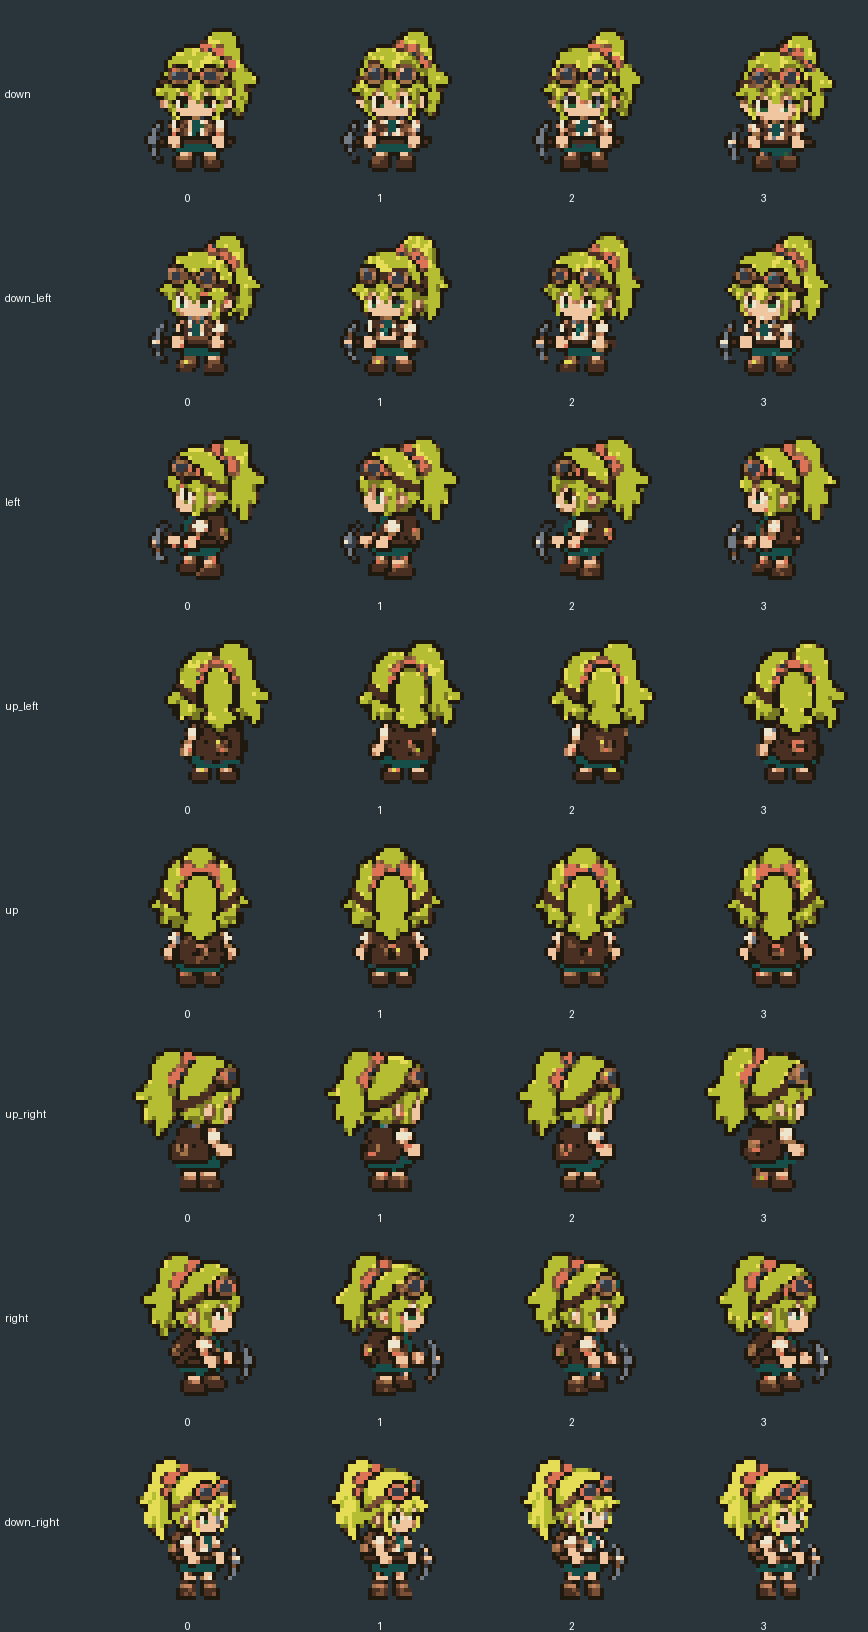
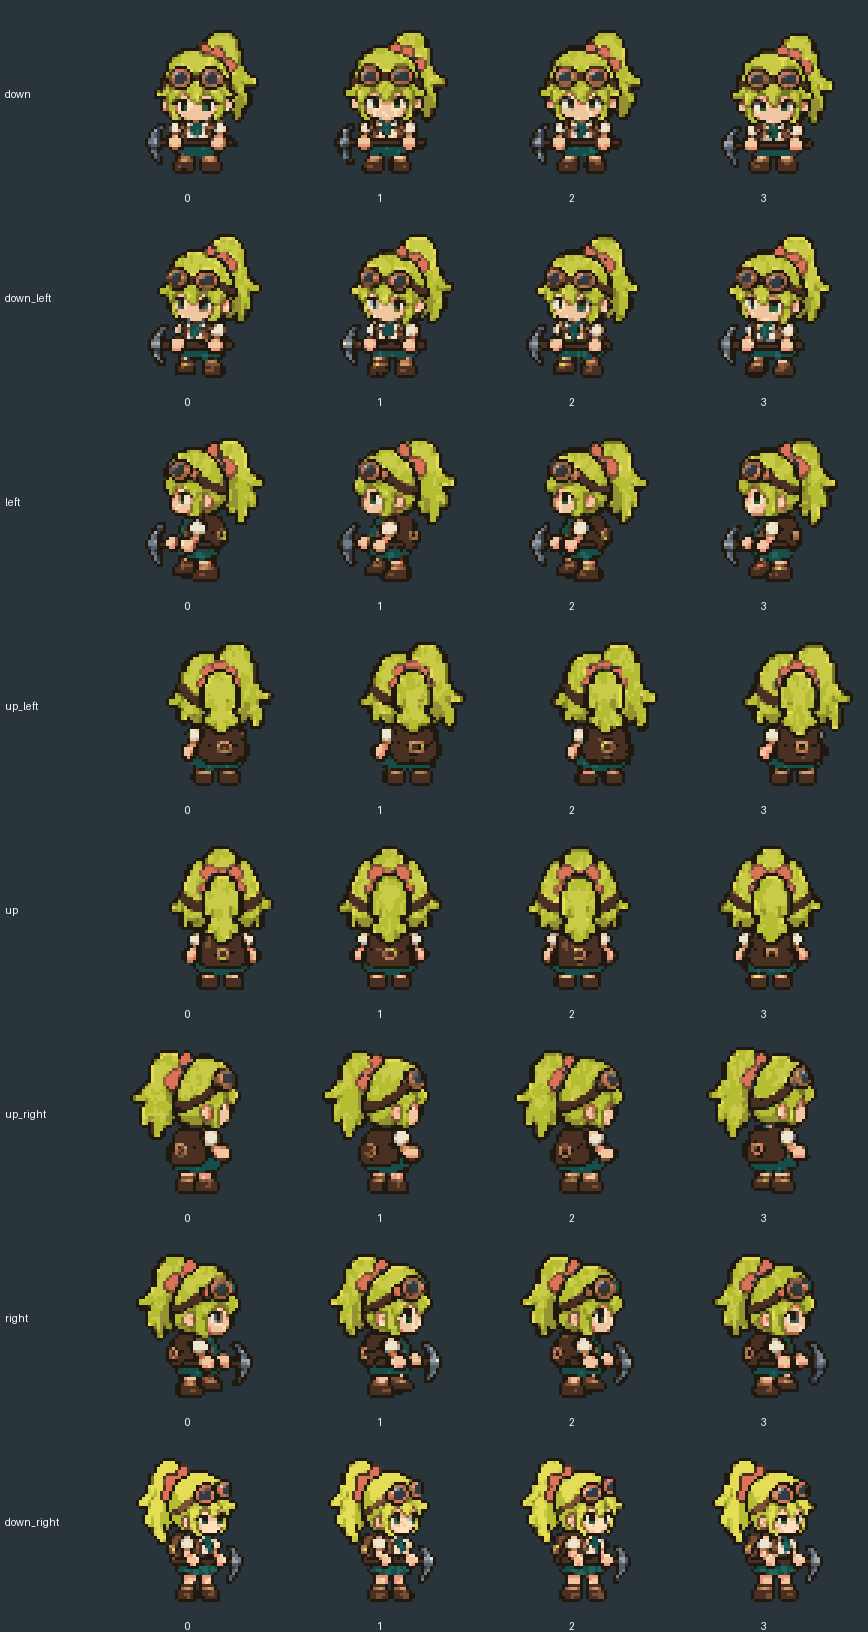
Refine explorer sprites and alternate walking and running feet

diff --git a/ART_STYLE.md b/ART_STYLE.md
@@ -23,14 +23,14 @@
 - 大きな頭、短い手足、簡潔な輪郭を使い、縮小しても向きと動作が分かるようにする。
 - 全方向・全動作で同一キャラクターの髪型、衣装、装備、体型を維持する。
 - 大きさが揃った正方形の画素で描く。滑らかな線、ぼかし、グラデーション、半透明の縁、細かい描き込みを使わない。
-- 1キャラクターの基本パレットは透明色を除いて約16色を目安とし、髪・肌・服・金属は少数の明暗色で表現する。
+- 1キャラクターの基本パレットは透明色を除いて最大32色を目安とし、髪・肌・服・金属の明暗を読み取れるようにする。
 - 光源は画面左上で固定し、キャラクターが向きを変えても光源を回転させない。
 
 ### 制作の順序と4面図
 
 - 最初に `down`（前）、`up`（後ろ）、`left`（左）、`right`（右）の静止した全身像を並べて作る。
 - 4面図では頭身、頭頂・肩が見える角度、髪型、衣装、装備、色、足元の高さを揃える。左右は実際に逆向きの横顔とする。
-- 4面図は外見確認用の資料であり、後述の48×48 pxの本番フレームとは区別する。資料の画像寸法をそのままスプライトとして使わない。
+- 4面図は外見確認用の資料であり、後述の64×64 pxの本番フレームとは区別する。資料の画像寸法をそのままスプライトとして使わない。
 - 外見を確定した後、4方向から斜め4方向を作り、8方向の待機・歩き・走りに展開する。
 
 ### 8方向
@@ -66,6 +66,7 @@
 - 歩きは落ち着いた歩幅と腕振り、走りは大きな歩幅・腕振りと軽い前傾で区別する。
 - 走りは歩きの再生速度を上げただけの素材にせず、専用のポーズを用意する。
 - 歩き・走りの8フレームで左右の足が交互に出る1周期を描く。フレーム0と4を反対側の足の接地ポーズにする。
+- 足の接地、すれ違い、浮きはコマごとに確認する。上半身の揺れだけを描いて歩行・走行とみなさない。
 - 歩き・走りのフレーム0は同じ側の足を前に出し、切り替え時の位相を合わせやすくする。
 - 最終フレームから先頭フレームへ自然につながるようにし、同じ先頭ポーズを末尾に重複させない。
 - 移動アニメーションはその場で足踏みする形式とする。ワールド上の移動はコードで行う。
@@ -73,9 +74,9 @@
 
 ### 画像サイズと配置
 
-- 1フレームは **48×48 px** の透過 PNG。全フレームで同じキャンバスサイズを使う。
-- 待機時のキャラクター全高は約36 pxを基準に、髪・手足・装備がセルからはみ出ない余白を確保する。
-- セル左上を `(0, 0)` とし、地面上の基準点を **`(24, 42)`** に固定する。
+- 1フレームは **64×64 px** の透過 PNG。全フレームで同じキャンバスサイズを使う。
+- 待機時のキャラクター全高は約48 pxを基準に、髪・手足・装備がセルからはみ出ない余白を確保する。
+- セル左上を `(0, 0)` とし、地面上の基準点を **`(32, 57)`** に固定する。
 - 基準点は足元の地面位置。足の踏み出しや体の上下動は許容するが、セル全体をずらしたり、フレームごとに自動トリミングしない。
 - 背景、文字、方向ラベル、枠線、ガイド線を本番素材に含めない。
 - 地面の影はスプライトに焼き込まず、必要ならゲーム側の別ノードで表示する。
@@ -85,14 +86,14 @@
 ### スプライトシートとファイル名
 
 - 動作ごとにシートを分け、横方向に時間順のフレーム、縦方向に上記8方向を並べる。
-- セル間の余白・外周の余白は0 px。各セルは必ず48×48 px。
+- セル間の余白・外周の余白は0 px。各セルは必ず64×64 px。
 - ファイル名は `<character_id>_<action>.png`。プレイヤー素材は `assets/player/`、敵素材は `assets/enemies/` に置く。
 
 | ファイル例 | 列×行 | シートサイズ |
 | --- | --- | --- |
-| `player_idle.png` | 4×8 | 192×384 px |
-| `player_walk.png` | 8×8 | 384×384 px |
-| `player_run.png` | 8×8 | 384×384 px |
+| `player_idle.png` | 4×8 | 256×512 px |
+| `player_walk.png` | 8×8 | 512×512 px |
+| `player_run.png` | 8×8 | 512×512 px |
 
 - 基本セットは合計 **160フレーム**（待機32・歩き64・走り64）。
 - 生成時はまず4面図で外見を揃え、それを基準に8方向の基準ポーズと各動作を作る。
@@ -101,8 +102,8 @@
 ### Godotへの組み込み基準
 
 - `AnimatedSprite2D` と `SpriteFrames` を使用し、名前は `idle_down`、`walk_up_left`、`run_right` など `<action>_<direction>` にする。
-- 48×48セルで切り出し、フレーム順と再生速度を上記仕様に合わせる。
-- キャラクターのルート位置を足元に置く。`AnimatedSprite2D` は `centered = true`、`offset = Vector2(0, -18)` とし、セルの `(24, 42)` をルート位置に合わせる。
+- 64×64セルで切り出し、フレーム順と再生速度を上記仕様に合わせる。
+- キャラクターのルート位置を足元に置く。`AnimatedSprite2D` は `centered = true`、`offset = Vector2(0, -25)` とし、セルの `(32, 57)` をルート位置に合わせる。
 - Godotのテクスチャフィルターを最近傍に設定し、整数倍の表示倍率を使用する。
 - 当たり判定は頭の大きさに合わせず、足元の接地範囲を基準に調整する。
 - 斜め移動のベクトルを正規化し、上下左右と移動速度を揃える。

diff --git a/assets/player/README.md b/assets/player/README.md
@@ -8,17 +8,17 @@
 
 | 動作 | ファイル | 1方向の枚数 | シート寸法 | 初期fps |
 | --- | --- | --- | --- | --- |
-| 待機 | [explorer_idle.png](explorer_idle.png) | 4 | 192×384 px | 4 |
-| 歩き | [explorer_walk.png](explorer_walk.png) | 8 | 384×384 px | 8 |
-| 走り | [explorer_run.png](explorer_run.png) | 8 | 384×384 px | 12 |
+| 待機 | [explorer_idle.png](explorer_idle.png) | 4 | 256×512 px | 4 |
+| 歩き | [explorer_walk.png](explorer_walk.png) | 8 | 512×512 px | 8 |
+| 走り | [explorer_run.png](explorer_run.png) | 8 | 512×512 px | 12 |
 
-- 1セル48×48 px、8方向、合計160コマ・24アニメーション。
+- 1セル64×64 px、8方向、合計160コマ・24アニメーション。
 - 横に時間順のコマ、縦に方向を配置。余白・間隔は0 px。
 - 行順は `down`、`down_left`、`left`、`up_left`、`up`、`up_right`、`right`、`down_right`。
-- 共通16色と透明色を使用。アルファは0または255で、ぼかしなし。
-- 足元の地面基準はセル内 `(24, 42)`。走りの空中位相では足が少し上がります。
-- 頭身は2頭身を基準とし、キャラクターは約36 px高。つるはしや髪もセル内に収めています。
-- Godotでは最近傍フィルターを使い、`AnimatedSprite2D` の `centered = true`、`offset = Vector2(0, -18)` とします。
+- 共通32色と透明色を使用。アルファは0または255で、ぼかしなし。
+- 足元の地面基準はセル内 `(32, 57)`。歩き・走りでは左右の足が交互に接地し、走りの空中位相では両足が少し上がります。
+- 頭身は2頭身を基準とし、キャラクターは約48 px高。つるはしや髪もセル内に収めています。
+- Godotでは最近傍フィルターを使い、`AnimatedSprite2D` の `centered = true`、`offset = Vector2(0, -25)` とします。
 - 詳細な寸法・行順・パレット・fpsは [explorer_sprites.json](explorer_sprites.json) に記録しています。
 
 ## 確認用プレビュー
@@ -27,14 +27,15 @@
 - 歩き: [再生GIF](previews/explorer_walk.gif) ／ [全コマ一覧](previews/explorer_walk_contact.png)
 - 走り: [再生GIF](previews/explorer_run.gif) ／ [全コマ一覧](previews/explorer_run_contact.png)
 
-プレビューは4倍の最近傍拡大です。背景と方向名は確認用画像だけに含まれます。
+プレビューは3倍の最近傍拡大です。背景と方向名は確認用画像だけに含まれます。
 GIFの時間単位に合わせて再生間隔を丸めているため、正確なfpsはJSONの値を使用してください。
 
 ## 制作・検証
 
-画像生成後、人物の輪郭から各コマを抽出し、方向ごとに同じ倍率で縮小、共通パレットへの減色、透明部分のノイズ除去、腰と足元を基準にした位置合わせを行いました。歩きの左後ろと待機の右前は個別に再生成しています。
+画像生成後、人物の輪郭から各コマを抽出し、方向ごとに同じ倍率で縮小、共通パレットへの減色、透明部分のノイズ除去、腰と足元を基準にした位置合わせを行いました。48 px版で潰れた細部を読み取れるように64 pxへ拡大し、歩き・走りの足元は接地する側が交互に変わる8位相で描き直しました。歩きの左後ろと待機の右前は個別に再生成しています。
 
-- PNGの寸法、セル数、16色、二値の透過、セル境界へのはみ出しがないことを検査済み。
+- PNGの寸法、セル数、32色、二値の透過、セル境界へのはみ出しがないことを検査済み。
+- 歩き・走りはフレーム0と4で接地する足が入れ替わることを確認済み。
 - 方向ごとに待機4枚、歩き8枚、走り8枚の異なるコマがあることを確認済み。
 - 全コマ一覧で方向と切り出しを目視確認済み。
 - Godot 4.7で3枚のテクスチャを読み込み、160領域の切り出しを確認。

diff --git a/docs/templates/sprite_sheet_request.md b/docs/templates/sprite_sheet_request.md
@@ -27,10 +27,10 @@
 | リュック | 茶色い革製。背中中央、肩紐2本、留め具付き |
 | 道具 | 木製の柄と鉄製の先端を持つつるはし1本 |
 | 左右非対称の部品の位置 | [要指定。ポーチなどは本人の右／左で記入] |
-| 48×48で優先する特徴の順 | [記入。例: 髪型 → ゴーグル → リュック → 道具] |
+| 64×64で優先する特徴の順 | [記入。例: 髪型 → ゴーグル → リュック → 道具] |
 | 省略してよい細部 | [記入／おまかせ] |
 | 省略・変更してはいけない部分 | 口なし、1本のポニーテール、革のリュック、つるはし。追加: [記入／なし] |
-| 確定パレット（任意） | [色名・HEX値の一覧／基準画像を約16色に整理] |
+| 確定パレット（任意） | [色名・HEX値の一覧／基準画像を最大32色に整理] |
 
 現在の4面図は大きな外見資料です。縮小しただけで完成とせず、セル寸法・画素の揃い・色数・輪郭・装備のつながりを検査します。
 
@@ -38,11 +38,11 @@
 
 | 項目 | 入力欄（ルールの初期値） |
 | --- | --- |
-| 1フレーム | 48×48 px |
-| キャラクター全高 | 待機時に約36 px。装備・髪もセル内に収める |
-| 足元の基準点 | セル左上を `(0, 0)` として `(24, 42)` |
+| 1フレーム | 64×64 px |
+| キャラクター全高 | 待機時に約48 px。装備・髪もセル内に収める |
+| 足元の基準点 | セル左上を `(0, 0)` として `(32, 57)` |
 | 頭身・視点 | 2頭身、斜め上からの見下ろし、全方向で共通 |
-| 画風 | 低解像度ドット絵、透明色以外は約16色が目安 |
+| 画風 | 低解像度ドット絵、透明色以外は最大32色が目安 |
 | 背景 | 透過PNG。背景色・文字・枠・地面の影なし |
 | 画素の縁 | ぼかし・アンチエイリアスなし |
 | シートの並び | 横がフレームの時間順、縦が方向 |
@@ -73,9 +73,9 @@
 
 | 今回作る | 動作 | ID | 1方向の枚数 | fps | ループ | ファイル名 | 列×行 | 寸法 |
 | --- | --- | --- | --- | --- | --- | --- | --- | --- |
-| [ ] | 待機 | `idle` | 4 | 4 | あり | `explorer_idle.png` | 4×8 | 192×384 px |
-| [ ] | 歩き | `walk` | 8 | 8 | あり | `explorer_walk.png` | 8×8 | 384×384 px |
-| [ ] | 走り | `run` | 8 | 12 | あり | `explorer_run.png` | 8×8 | 384×384 px |
+| [ ] | 待機 | `idle` | 4 | 4 | あり | `explorer_idle.png` | 4×8 | 256×512 px |
+| [ ] | 歩き | `walk` | 8 | 8 | あり | `explorer_walk.png` | 8×8 | 512×512 px |
+| [ ] | 走り | `run` | 8 | 12 | あり | `explorer_run.png` | 8×8 | 512×512 px |
 | [ ] | [追加動作] | [記入] | [記入] | [記入] | [記入] | [記入] | [記入] | [記入] |
 
 全基本動作を作ると160フレーム・24アニメーションです。セル数や方向数を変えた場合は、幅＝セル幅×列数、高さ＝セル高さ×行数で出力寸法も更新します。fpsは移動速度に合わせて調整可能な初期値です。
@@ -122,7 +122,7 @@
 | --- | --- |
 | アニメーション名 | `<action>_<direction>`。例: `walk_down_left` |
 | SpriteFramesの保存先 | `assets/player/explorer_sprite_frames.tres` |
-| 表示位置 | `centered = true`、`offset = Vector2(0, -18)` |
+| 表示位置 | `centered = true`、`offset = Vector2(0, -25)` |
 | テクスチャフィルター | 最近傍 |
 | 歩き／走りの移動速度（任意） | [記入。未実装なら未定] |
 | 歩き／走りの入力（任意） | [記入。未実装なら未定] |

diff --git a/docs/templates/four_view_request.md b/docs/templates/four_view_request.md
@@ -84,7 +84,7 @@
 | 項目 | 入力欄 |
 | --- | --- |
 | 視点 | 斜め上からの見下ろし。頭頂と肩の上面が見える正投影風 |
-| 画風 | 粗めの低解像度ドット絵、色数は透明色を除いて約16色を目安 |
+| 画風 | 低解像度ドット絵、色数は透明色を除いて最大32色を目安 |
 | 光源 | 画面左上で固定 |
 | ポーズ | 静止した全身像。全方向で頭身・大きさ・足元の高さを揃える |
 | 背景・影・文字 | 透過PNG。背景、地面の影、枠線、文字を入れない |
@@ -94,7 +94,7 @@
 | 既存画像の扱い | 修正版で差し替え／別名で保存から選択 |
 | プレビューの指定（任意） | [記入／おまかせ] |
 
-4面図は外見確認用です。実際の出力寸法を記録し、48×48 pxの本番フレームとは区別します。本番で残したい細部は次のシートでも指定してください。
+4面図は外見確認用です。実際の出力寸法を記録し、64×64 pxの本番フレームとは区別します。本番で残したい細部は次のシートでも指定してください。
 
 ## 7. 最終指示・確認欄
 
